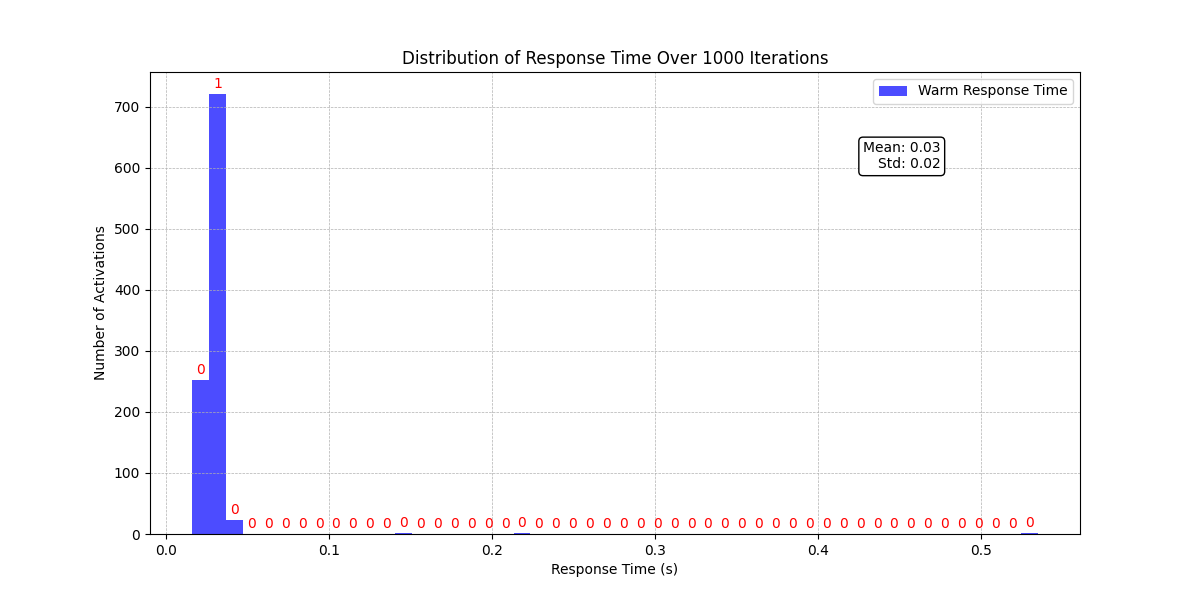
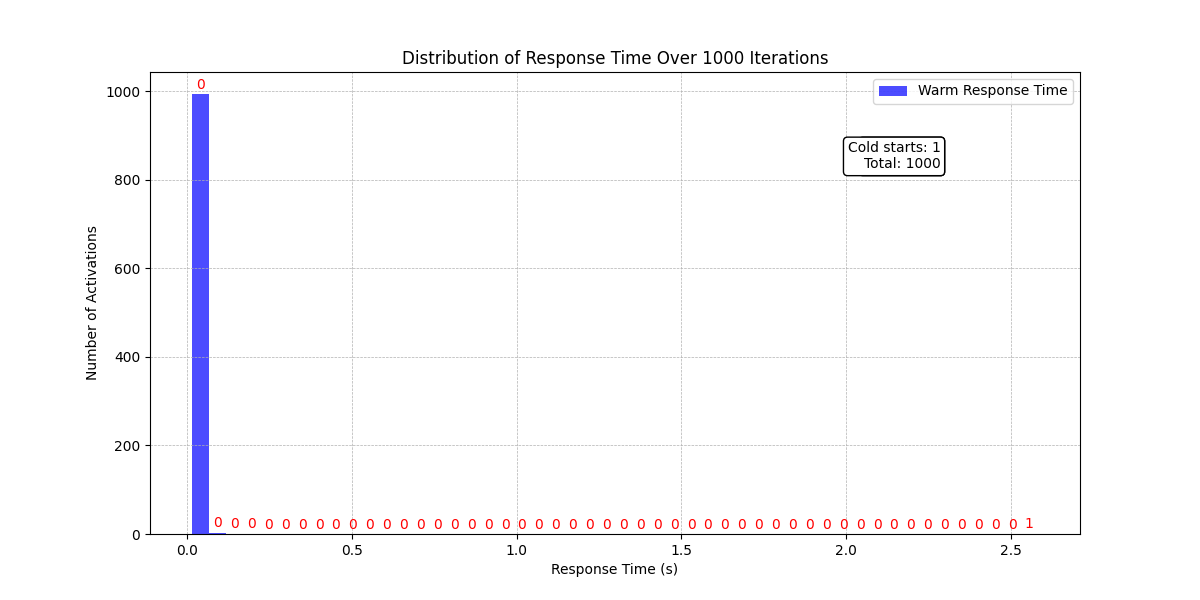
Add GC collection stats

diff --git a/docker-compose/Scripts/response_time_plotter.py b/docker-compose/Scripts/response_time_plotter.py
@@ -28,6 +28,10 @@ def plot_histogram(data, states, output_file):
     plt.text(0.85, 0.85, f"Mean: {mean_val:.2f}\nStd: {std_val:.2f}", transform=plt.gca().transAxes, ha="right", va="top",
              bbox=dict(boxstyle="round", facecolor="white", edgecolor="black"))
 
+    # Add text label for mean and std
+    plt.text(0.85, 0.85, f"Cold starts: {len([x for x in states if x == 'cold'])}\nTotal: {len(states)}", transform=plt.gca().transAxes, ha="right", va="top",
+             bbox=dict(boxstyle="round", facecolor="white", edgecolor="black"))
+
     plt.title('Distribution of Response Time Over {} Iterations'.format(len(data)))
     plt.xlabel('Response Time (s)')
     plt.ylabel('Number of Activations')
@@ -53,21 +57,52 @@ def plot_line(data, states, output_file):
     plt.savefig('../Graphs/'+ output_file.replace('.txt', '_line_plot.png'))
     # plt.show()
 
+def plot_gc_line(data, output_file, ylabel):
+    x = np.arange(1, len(data) + 1)
+    plt.figure(figsize=(12, 6))
+    plt.plot(x, data, label=output_file, linewidth=2, color='blue')
+    plt.title(f'{ylabel} Over {len(data)} Iterations')
+    plt.xlabel('Iteration')
+    plt.ylabel(ylabel)
+    plt.grid(True)
+    plt.legend()
+    plt.savefig('../Graphs/'+ output_file.replace('.txt', '_line_plot.png'))
+
 if __name__ == '__main__':
-    if len(sys.argv) < 3:
-        print("Usage: python script_name.py latency_output_file.txt state_file.txt")
+    if len(sys.argv) < 6:
+        print("Usage: python script_name.py latency_output_file.txt state_file.txt gcCollections.txt gcCollectionTime.txt gcTotalCollectors.txt")
         sys.exit(1)
 
     output_file = sys.argv[1]
     state_file = sys.argv[2]
+    gc_collections_file = sys.argv[3]
+    gc_collection_time_file = sys.argv[4]
+    gc_total_collectors_file = sys.argv[5]
 
     with open(output_file, 'r') as f:
-        lines = f.readlines()
+        latency_data = [float(line.strip()) for line in f.readlines()]
 
     with open(state_file, 'r') as f:
         states = [line.strip().split(': ')[1].replace('"', '') for line in f.readlines()]
 
-    data = [float(line.strip()) for line in lines]
+    # Plotting the latency data
+    plot_histogram(latency_data, states, output_file)
+    plot_line(latency_data, states, output_file)
 
-    plot_histogram(data, states, output_file)
-    plot_line(data, states, output_file)
+    # Loading and plotting the GC Collections
+    with open(gc_collections_file, 'r') as f:
+        gc_collections = [float(line.strip()) for line in f.readlines()]
+
+    plot_gc_line(gc_collections, "gcCollections", "GC Collections")
+
+    # Loading and plotting the GC Collection Time
+    with open(gc_collection_time_file, 'r') as f:
+        gc_collection_times = [float(line.strip()) for line in f.readlines()]
+
+    plot_gc_line(gc_collection_times, "gcCollectionTime", "GC Collection Time (ms)")
+
+    # Loading and plotting the Total GC Collectors
+    with open(gc_total_collectors_file, 'r') as f:
+        gc_total_collectors = [float(line.strip()) for line in f.readlines()]
+
+    plot_gc_line(gc_total_collectors, "gcTotalCollectors", "Total GC Collectors")
